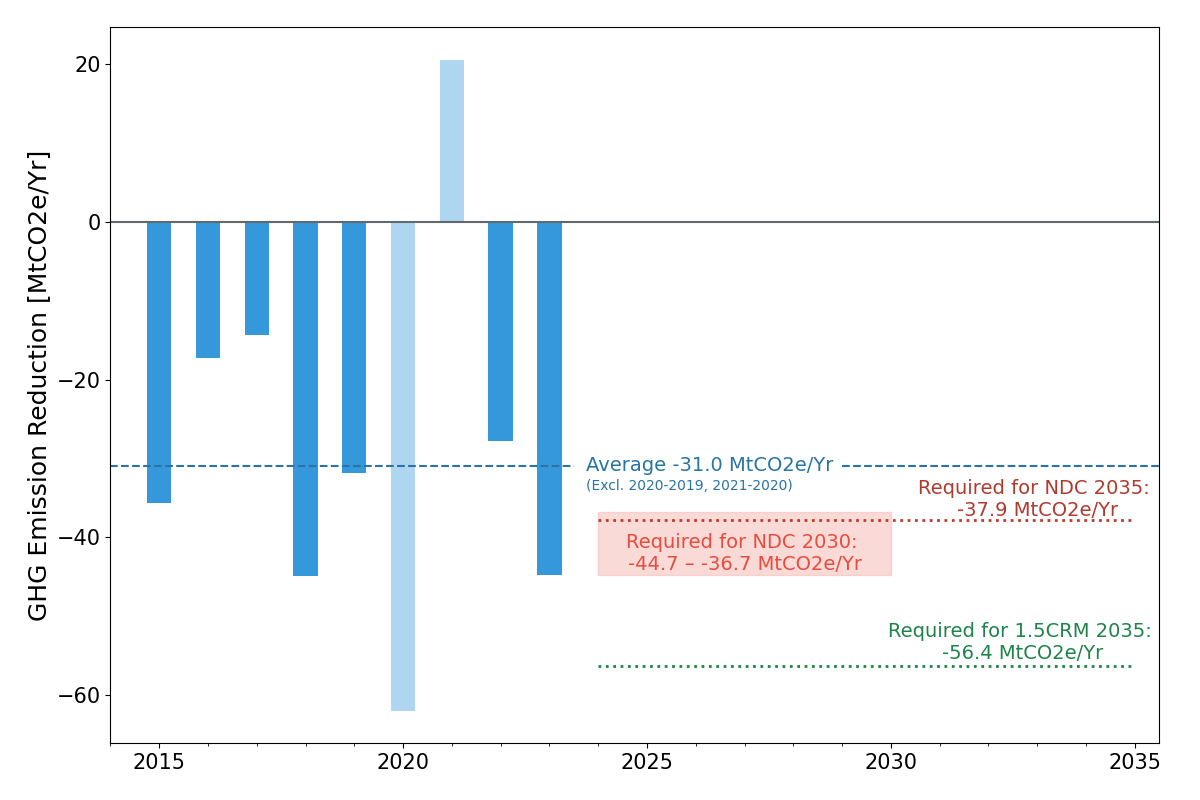
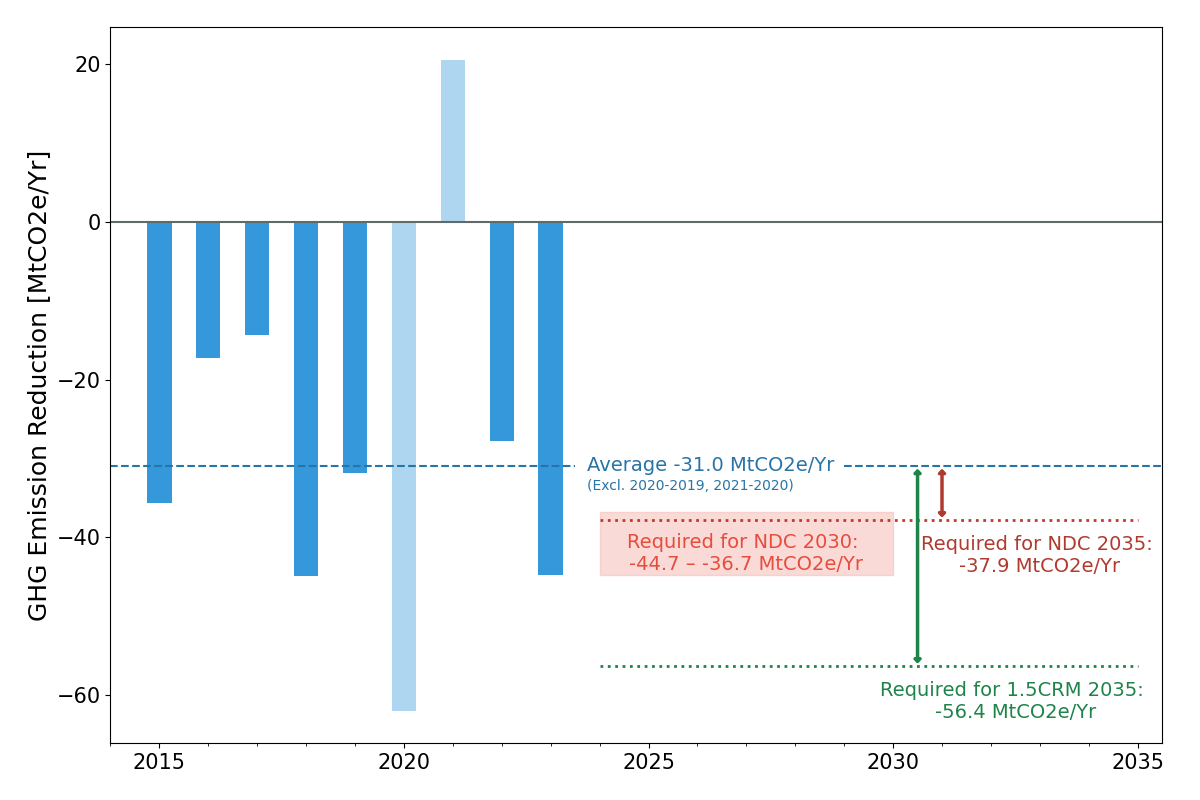
update GHG reduction pace gap plot, add total energy-related co2 plots

diff --git a/scripts/20260226_06_plot_co2_total.py b/scripts/20260226_06_plot_co2_total.py
@@ -1,5 +1,6 @@
 # 20250930 / 1215 / 1222
-# 20260105 / 0226
+# 20260105 / 0226 / 0311
+# 20260319
 # -*- coding: utf-8 -*-
 import json
 #import openpyxl
@@ -15,10 +16,7 @@ rcParams['xtick.labelsize'] = 20
 rcParams['ytick.labelsize'] = 20
 #rcParams['lines.markersize'] = 10
 rcParams['lines.linewidth'] = 3
-#rcParams['font.family'] = 'Hiragino Sans'
-#rcParams['xtick.labelsize'] = 'small'
-#rcParams['ytick.labelsize'] = 'small'
-
+rcParams['font.family'] = 'Hiragino Sans'
 
 YEAR1_START = 2010
 YEAR1_END   = 2024
@@ -26,9 +24,9 @@ YEAR1_END   = 2024
 FIT_YEAR_START = 2014
 FIR_YEAR_END   = 2024
 
-jsonfile1_data = 'outputs/20251201_21_energy_stat/20251201_21_energy_stat_data_common_3_エネルギー利用.json'
-jsonfile2_data = 'outputs/20251201_01_1p5CRM_balance_energy/20251201_11_1p5CRM_balance_energy_data_common_10_エネルギー利用.json'
-jsonfile3_data = 'outputs/20251201_03_1p5CRM_steps_energy/20251201_13_1p5CRM_steps_energy_data_common_10_エネルギー利用.json'
+jsonfile1_data = 'outputs/20251201_21_energy_stat/20260316_32_energy_stat_co2_data_common_12_総合計_エネルギー利用分_RD.json'
+jsonfile2_data = 'outputs/20251201_02_1p5CRM_balance_co2/20251119_12_1p5CRM_balance_co2_data_common_10_エネルギー利用.json'
+jsonfile3_data = 'outputs/20251201_04_1p5CRM_steps_co2/20251201_14_1p5CRM_steps_co2_data_common_10_エネルギー利用.json'
 
 jsonfile_sep_data = 'outputs/20251218_02_SEP/20260311_02_SEP_numbers.json'
 
@@ -53,7 +51,7 @@ list_subcategory = [
 n_subcategory = len(list_subcategory)
 
 list_subcatlabel = [
-    'FEC (エネルギー起源)',
+    'エネルギー起源CO2',
     '産業',
     '農林水産',
     '建設',
@@ -147,16 +145,16 @@ def plot(df1, df2, df3, year1_list, year2_list, df_sep):
     lw2 = 2
     ms = 8
 
-    ymin = 4.5
-    ymax = 13.5
-    ax.set(ylim=(ymin, ymax))
+    ymin = 0.0
+    ymax = 1420.0
+    ax.set_ylim(ymin, ymax)
 
     df1_sub = df1[df1['id']==list_subcategory[0]]
     df2_sub = df2[df2['id']==list_subcategory[0]]
     df3_sub = df3[df3['id']==list_subcategory[0]]
 
     tx = year1_range # numpy ndarray
-    ty = df1_sub[year1_list].iloc[0]/1.0e6 # pandas series
+    ty = df1_sub[year1_list].iloc[0]
 
     ax.plot(tx, ty, 'o-', color=config.COL_ASBESTOS_MED, linewidth=lw1, markersize=ms)
 
@@ -170,7 +168,7 @@ def plot(df1, df2, df3, year1_list, year2_list, df_sep):
     df1_subsubset = df1_subsubset.drop(columns=['2020'])
     tx = np.array([2014, 2015, 2016, 2017, 2018, 2019, 2021, 2022, 2023])
     tx = tx - 2013
-    ty = df1_subsubset.iloc[0]/1.0e6
+    ty = df1_subsubset.iloc[0]
 
     # fitting
     fit2 = np.polyfit(tx, ty, 1)
@@ -179,19 +177,24 @@ def plot(df1, df2, df3, year1_list, year2_list, df_sep):
     tx = np.array([FIT_YEAR_START, 2050])
     ty = a*(tx - 2013) + b
     ax.plot(tx, ty, '-.', color=config.COL_POMEGRANATE_MED, linewidth=lw2)
+    ty_2030 = a * (2030 - 2013) + b
+    ty_2035 = a * (2035 - 2013) + b
+    ty_2040 = a * (2040 - 2013) + b
+    print('a:%.3e b:%.3e 2030:%.2f 2035:%.2f 2040:%.2f' % (a, b, ty_2030, ty_2035, ty_2040))
 
     # 1.5CRM
     tx = np.array([2017.5, 2030, 2040, 2050])
-    ty = df2_sub[year2_list].iloc[0]/1.0e6
+    ty = df2_sub[year2_list].iloc[0]
     ax.plot(tx, ty, 'o-', color=config.COL_TURQUOISE_MED, linewidth=lw1, markersize=ms)
-    ty = df3_sub[year2_list].iloc[0]/1.0e6
+    ty = df3_sub[year2_list].iloc[0]
     ax.plot(tx, ty, 'o-', color=config.COL_ORANGE_MED, linewidth=lw1, markersize=ms)
 
     # SEP
     for j in range(6):
-        tdx = df_sep[(df_sep['Scenario']==j) & (df_sep['Sector']==sector_str[0]) & (df_sep['Type']=='FEC(energy-related)')]
+        tdx = df_sep[(df_sep['Scenario']==j) & (df_sep['Sector']==sector_str[0]) & (df_sep['Type']=='CO2 Emissions')]
         tx = tdx['Year']
-        ty = tdx['Value']/1.0e6
+#        ty = tdx['Value']*energy_frac/1.0e6
+        ty = tdx['Value']
         if j < 5:
             marker = 'o'
             col = config.COL_ALIZARIN_MED
@@ -201,16 +204,16 @@ def plot(df1, df2, df3, year1_list, year2_list, df_sep):
         ax.plot(tx, ty, marker, color=col, markersize=ms+1)
 
     #ax.set_title(list_subcatlabel[0])
-    ax.set_ylabel('EJ')
+    ax.set_ylabel('MtCO2')
     xmin = YEAR1_START
     xmax = 2050
     ax.set_xticks(np.arange(xmin, xmax+1, step=10))
-    ax.text(xmax - (xmax-xmin)*0.44, ymax - (ymax-ymin)*0.07, 'FEC (Energy-related)', color=config.COL_ASBESTOS_DARK, fontsize=24)
+    ax.text(xmax - (xmax-xmin)*0.45, ymax - (ymax-ymin)*0.07, 'CO2 (エネルギー起源)', color=config.COL_ASBESTOS_DARK, fontsize=24)
 
     #ax.legend(loc='lower left')
     plt.tight_layout()
     #plt.show()
-    plt.savefig('charts/20260226_04_plot_energy_total_EN.png')
+    plt.savefig('charts/20260226_06_plot_co2_energy_total.png')
 
 if __name__ == '__main__':
     df1, df2, df3, year1_list, year2_list = load_data()

diff --git a/scripts/20260226_06_plot_co2_total_EN.py b/scripts/20260226_06_plot_co2_total_EN.py
@@ -1,5 +1,6 @@
 # 20250930 / 1215 / 1222
-# 20260105 / 0226
+# 20260105 / 0226 / 0311
+# 20260319
 # -*- coding: utf-8 -*-
 import json
 #import openpyxl
@@ -15,10 +16,7 @@ rcParams['xtick.labelsize'] = 20
 rcParams['ytick.labelsize'] = 20
 #rcParams['lines.markersize'] = 10
 rcParams['lines.linewidth'] = 3
-#rcParams['font.family'] = 'Hiragino Sans'
-#rcParams['xtick.labelsize'] = 'small'
-#rcParams['ytick.labelsize'] = 'small'
-
+rcParams['font.family'] = 'Hiragino Sans'
 
 YEAR1_START = 2010
 YEAR1_END   = 2024
@@ -26,9 +24,9 @@ YEAR1_END   = 2024
 FIT_YEAR_START = 2014
 FIR_YEAR_END   = 2024
 
-jsonfile1_data = 'outputs/20251201_21_energy_stat/20251201_21_energy_stat_data_common_3_エネルギー利用.json'
-jsonfile2_data = 'outputs/20251201_01_1p5CRM_balance_energy/20251201_11_1p5CRM_balance_energy_data_common_10_エネルギー利用.json'
-jsonfile3_data = 'outputs/20251201_03_1p5CRM_steps_energy/20251201_13_1p5CRM_steps_energy_data_common_10_エネルギー利用.json'
+jsonfile1_data = 'outputs/20251201_21_energy_stat/20260316_32_energy_stat_co2_data_common_12_総合計_エネルギー利用分_RD.json'
+jsonfile2_data = 'outputs/20251201_02_1p5CRM_balance_co2/20251119_12_1p5CRM_balance_co2_data_common_10_エネルギー利用.json'
+jsonfile3_data = 'outputs/20251201_04_1p5CRM_steps_co2/20251201_14_1p5CRM_steps_co2_data_common_10_エネルギー利用.json'
 
 jsonfile_sep_data = 'outputs/20251218_02_SEP/20260311_02_SEP_numbers.json'
 
@@ -53,7 +51,7 @@ list_subcategory = [
 n_subcategory = len(list_subcategory)
 
 list_subcatlabel = [
-    'FEC (エネルギー起源)',
+    'エネルギー起源CO2',
     '産業',
     '農林水産',
     '建設',
@@ -147,16 +145,16 @@ def plot(df1, df2, df3, year1_list, year2_list, df_sep):
     lw2 = 2
     ms = 8
 
-    ymin = 4.5
-    ymax = 13.5
-    ax.set(ylim=(ymin, ymax))
+    ymin = 0.0
+    ymax = 1420.0
+    ax.set_ylim(ymin, ymax)
 
     df1_sub = df1[df1['id']==list_subcategory[0]]
     df2_sub = df2[df2['id']==list_subcategory[0]]
     df3_sub = df3[df3['id']==list_subcategory[0]]
 
     tx = year1_range # numpy ndarray
-    ty = df1_sub[year1_list].iloc[0]/1.0e6 # pandas series
+    ty = df1_sub[year1_list].iloc[0]
 
     ax.plot(tx, ty, 'o-', color=config.COL_ASBESTOS_MED, linewidth=lw1, markersize=ms)
 
@@ -170,7 +168,7 @@ def plot(df1, df2, df3, year1_list, year2_list, df_sep):
     df1_subsubset = df1_subsubset.drop(columns=['2020'])
     tx = np.array([2014, 2015, 2016, 2017, 2018, 2019, 2021, 2022, 2023])
     tx = tx - 2013
-    ty = df1_subsubset.iloc[0]/1.0e6
+    ty = df1_subsubset.iloc[0]
 
     # fitting
     fit2 = np.polyfit(tx, ty, 1)
@@ -179,19 +177,24 @@ def plot(df1, df2, df3, year1_list, year2_list, df_sep):
     tx = np.array([FIT_YEAR_START, 2050])
     ty = a*(tx - 2013) + b
     ax.plot(tx, ty, '-.', color=config.COL_POMEGRANATE_MED, linewidth=lw2)
+    ty_2030 = a * (2030 - 2013) + b
+    ty_2035 = a * (2035 - 2013) + b
+    ty_2040 = a * (2040 - 2013) + b
+    print('a:%.3e b:%.3e 2030:%.2f 2035:%.2f 2040:%.2f' % (a, b, ty_2030, ty_2035, ty_2040))
 
     # 1.5CRM
     tx = np.array([2017.5, 2030, 2040, 2050])
-    ty = df2_sub[year2_list].iloc[0]/1.0e6
+    ty = df2_sub[year2_list].iloc[0]
     ax.plot(tx, ty, 'o-', color=config.COL_TURQUOISE_MED, linewidth=lw1, markersize=ms)
-    ty = df3_sub[year2_list].iloc[0]/1.0e6
+    ty = df3_sub[year2_list].iloc[0]
     ax.plot(tx, ty, 'o-', color=config.COL_ORANGE_MED, linewidth=lw1, markersize=ms)
 
     # SEP
     for j in range(6):
-        tdx = df_sep[(df_sep['Scenario']==j) & (df_sep['Sector']==sector_str[0]) & (df_sep['Type']=='FEC(energy-related)')]
+        tdx = df_sep[(df_sep['Scenario']==j) & (df_sep['Sector']==sector_str[0]) & (df_sep['Type']=='CO2 Emissions')]
         tx = tdx['Year']
-        ty = tdx['Value']/1.0e6
+#        ty = tdx['Value']*energy_frac/1.0e6
+        ty = tdx['Value']
         if j < 5:
             marker = 'o'
             col = config.COL_ALIZARIN_MED
@@ -201,16 +204,16 @@ def plot(df1, df2, df3, year1_list, year2_list, df_sep):
         ax.plot(tx, ty, marker, color=col, markersize=ms+1)
 
     #ax.set_title(list_subcatlabel[0])
-    ax.set_ylabel('EJ')
+    ax.set_ylabel('MtCO2')
     xmin = YEAR1_START
     xmax = 2050
     ax.set_xticks(np.arange(xmin, xmax+1, step=10))
-    ax.text(xmax - (xmax-xmin)*0.44, ymax - (ymax-ymin)*0.07, 'FEC (Energy-related)', color=config.COL_ASBESTOS_DARK, fontsize=24)
+    ax.text(xmax - (xmax-xmin)*0.45, ymax - (ymax-ymin)*0.07, 'CO2 (Energy-related)', color=config.COL_ASBESTOS_DARK, fontsize=24)
 
     #ax.legend(loc='lower left')
     plt.tight_layout()
     #plt.show()
-    plt.savefig('charts/20260226_04_plot_energy_total_EN.png')
+    plt.savefig('charts/20260226_06_plot_co2_energy_total_EN.png')
 
 if __name__ == '__main__':
     df1, df2, df3, year1_list, year2_list = load_data()

diff --git a/scripts/20260226_03_plot_GHGI_diff_EN.py b/scripts/20260226_03_plot_GHGI_diff_EN.py
@@ -10,6 +10,7 @@ import matplotlib.pyplot as plt
 from matplotlib import rcParams
 import config 
 from matplotlib.ticker import MaxNLocator, MultipleLocator
+from matplotlib.patches import ArrowStyle
 
 GHGI_DIFF_JSON_FILE  = 'outputs/20251201_31_GHGI/20251208_02_GHGI_ghg_toplevel_diff.json'
 
@@ -65,7 +66,7 @@ def get_average_diff(df_ghg):
 def plot(df_ghg, average):
     fig, ax = plt.subplots(figsize=(12, 8))
 
-    lw1 = 3
+    lw1 = 2.5
     lw2 = 2
     lw3 = 1.5
     fs1 = 14
@@ -123,7 +124,11 @@ def plot(df_ghg, average):
     tx = np.array([2024, 2035])
     ty = np.array([avg1, avg1])
     ax.plot(tx, ty, ':', color=config.COL_POMEGRANATE_MED, linewidth=lw2)
-    ax.text(2033, avg1+0.1, 'Required for NDC 2035: \n%3.1f MtCO2e/Yr' % (avg1), color=config.COL_ALIZARIN_DARK, fontsize=fs1, va='bottom', ha='center')
+    #ax.text(2033, avg1+0.1, 'Required for NDC 2035: \n%3.1f MtCO2e/Yr' % (avg1), color=config.COL_ALIZARIN_DARK, fontsize=fs1, va='bottom', ha='center')
+    ax.text(2033, avg1-4.5, 'Required for NDC 2035: \n%3.1f MtCO2e/Yr' % (avg1), color=config.COL_ALIZARIN_DARK, fontsize=fs1, va='center', ha='center')
+    ## arrow
+    arrow_style = ArrowStyle('<|-|>', head_length=0.1,head_width=0.1, widthA=lw1, widthB=lw1)
+    ax.annotate('', xy=[2031, avg1], xytext=[2031,average], arrowprops=dict(arrowstyle=arrow_style, color=config.COL_ALIZARIN_DARK, linewidth=lw1))
 
     # average GHG reduction required for NDC 2040
 #    ndc2040 = NDC2013 * 0.27
@@ -141,7 +146,11 @@ def plot(df_ghg, average):
     tx = np.array([2024, 2035])
     ty = np.array([avg2, avg2])
     ax.plot(tx, ty, ':', color=config.COL_NEPHRITIS_DARK, linewidth=lw2)
-    ax.text(2032.7, avg2+0.4, 'Required for 1.5CRM 2035: \n%3.1f MtCO2e/Yr' % (avg2), color=config.COL_NEPHRITIS_DARK, fontsize=fs1, va='bottom', ha='center')
+    #ax.text(2032.7, avg2+0.4, 'Required for 1.5CRM 2035: \n%3.1f MtCO2e/Yr' % (avg2), color=config.COL_NEPHRITIS_DARK, fontsize=fs1, va='bottom', ha='center')
+    ax.text(2032.5, avg2-4.5, 'Required for 1.5CRM 2035: \n%3.1f MtCO2e/Yr' % (avg2), color=config.COL_NEPHRITIS_DARK, fontsize=fs1, va='center', ha='center')
+    ## arrow
+    arrow_style = ArrowStyle('<|-|>', head_length=0.1,head_width=0.1, widthA=lw1, widthB=lw1)
+    ax.annotate('', xy=[2030.5, avg2], xytext=[2030.5,average], arrowprops=dict(arrowstyle=arrow_style, color=config.COL_NEPHRITIS_DARK, linewidth=lw1))
 
     ax.set_ylabel('GHG Emission Reduction [MtCO2e/Yr]')
     plt.tight_layout()

diff --git a/scripts/20260226_03_plot_GHGI_diff.py b/scripts/20260226_03_plot_GHGI_diff.py
@@ -10,6 +10,7 @@ import matplotlib.pyplot as plt
 from matplotlib import rcParams
 import config 
 from matplotlib.ticker import MaxNLocator, MultipleLocator
+from matplotlib.patches import ArrowStyle
 
 GHGI_DIFF_JSON_FILE  = 'outputs/20251201_31_GHGI/20251208_02_GHGI_ghg_toplevel_diff.json'
 
@@ -65,7 +66,7 @@ def get_average_diff(df_ghg):
 def plot(df_ghg, average):
     fig, ax = plt.subplots(figsize=(12, 8))
 
-    lw1 = 3
+    lw1 = 2.5
     lw2 = 2
     lw3 = 1.5
     fs1 = 16
@@ -123,7 +124,11 @@ def plot(df_ghg, average):
     tx = np.array([2024, 2035])
     ty = np.array([avg1, avg1])
     ax.plot(tx, ty, ':', color=config.COL_POMEGRANATE_MED, linewidth=lw2)
-    ax.text(2033, avg1+0.1, '2035年NDCに必要: \n%3.1f MtCO2e/年' % (avg1), color=config.COL_ALIZARIN_DARK, fontsize=fs1, va='bottom', ha='center')
+    #ax.text(2033, avg1+0.1, '2035年NDCに必要: \n%3.1f MtCO2e/年' % (avg1), color=config.COL_ALIZARIN_DARK, fontsize=fs1, va='bottom', ha='center')
+    ax.text(2033, avg1-4.5, '2035年NDCに必要: \n%3.1f MtCO2e/年' % (avg1), color=config.COL_ALIZARIN_DARK, fontsize=fs1, va='center', ha='center')
+    ## arrow
+    arrow_style = ArrowStyle('<|-|>', head_length=0.1,head_width=0.1, widthA=lw1, widthB=lw1)
+    ax.annotate('', xy=[2031, avg1], xytext=[2031,average], arrowprops=dict(arrowstyle=arrow_style, color=config.COL_ALIZARIN_DARK, linewidth=lw1))
 
     # average GHG reduction required for NDC 2040
 #    ndc2040 = NDC2013 * 0.27
@@ -141,7 +146,11 @@ def plot(df_ghg, average):
     tx = np.array([2024, 2035])
     ty = np.array([avg2, avg2])
     ax.plot(tx, ty, ':', color=config.COL_NEPHRITIS_DARK, linewidth=lw2)
-    ax.text(2033, avg2+0.4, '1.5CRM 2035に必要: \n%3.1f MtCO2e/年' % (avg2), color=config.COL_NEPHRITIS_DARK, fontsize=fs1, va='bottom', ha='center')
+    #ax.text(2033, avg2+0.4, '1.5CRM 2035に必要: \n%3.1f MtCO2e/年' % (avg2), color=config.COL_NEPHRITIS_DARK, fontsize=fs1, va='bottom', ha='center')
+    ax.text(2032.5, avg2-4.5, '1.5CRM 2035に必要: \n%3.1f MtCO2e/年' % (avg2), color=config.COL_NEPHRITIS_DARK, fontsize=fs1, va='center', ha='center')
+    ## arrow
+    arrow_style = ArrowStyle('<|-|>', head_length=0.1,head_width=0.1, widthA=lw1, widthB=lw1)
+    ax.annotate('', xy=[2030.5, avg2], xytext=[2030.5,average], arrowprops=dict(arrowstyle=arrow_style, color=config.COL_NEPHRITIS_DARK, linewidth=lw1))
 
     ax.set_ylabel('GHG排出削減量 [MtCO2e/年]')
     plt.tight_layout()

diff --git a/doc/report2026/20260224_01_NZPR_report.md b/doc/report2026/20260224_01_NZPR_report.md
@@ -116,6 +116,8 @@ GHGインベントリのCO<sub>2</sub>排出量、総合エネルギー統計の
 
 ここでは、エネルギー消費量やエネルギー起源CO2排出量及び排出原単位の2010年度以降の変化を確認し、これまでの変化を単純に外挿した場合とIGES 1.5℃ロードマップ（バランスシナリオ、政府目標シナリオ）での2050年までの推移を比較し、進捗状況について検討する。まず日本全体での数値を示した後、部門ごとの数値を確認し、それぞれの部門における進捗の特徴を議論する。さらに、エネ基（需給見通し）における2030年度や2040年度の目標数値が公表されている場合にはそれらも併せて示す。
 
+（排出削減の基本的な考え方：エネルギー利用効率化 x 排出原単位削減を示す）
+
 #### エネルギー消費量（日本全体）
 
 ![エネ消費量全体](doc/report2026/figures/20260226_04_plot_energy_total_cap.png)
@@ -234,16 +236,18 @@ GHGインベントリのCO<sub>2</sub>排出量、総合エネルギー統計の
 現状では、日本はEV（BEV及びPHEV）のシェアが非常に小さい。図[EVshare]はEV（BEV及びプラグインハイブリッド車）の新車乗用車販売におけるシェアをいくつかの国で比較した図である（データは[Robbie Andrew][RobbieAndrew2026]による）。日本や北米でのEV販売割合が低位のまま停滞しているのに対し、着実に増加してきた欧州各国に加え、アジア圏の各国で近年販売割合が大幅に上昇している。[EMBER][EMBER2025]は、アジアだけでなく中南米等を含む新興国市場でEVの販売が急激に増加していることや、中国のEV輸出における最近2年間の成長の大半が非OECD国の市場であることを報告している。
 
 
-##### まとめ
-
-- 部門別にエネ消費量、原単位、排出量が2013年からどう変化したか、エネ基目標に対してどうかをまとめた表
-
 ### Discussion
 
 #### Cause of rapid decline of energy use in industry
 
 #### Impact of different measures, suggested by 1.5CRM
 - Importance of electricity decarbonisation
+（部門ごとのエネルギー消費量に占める電力の割合を示す）
+
+##### まとめ
+
+- 部門別にエネ消費量、原単位、排出量が2013年からどう変化したか、エネ基目標に対してどうかをまとめた表
+
 
 #### 対策強化とコスト
 
